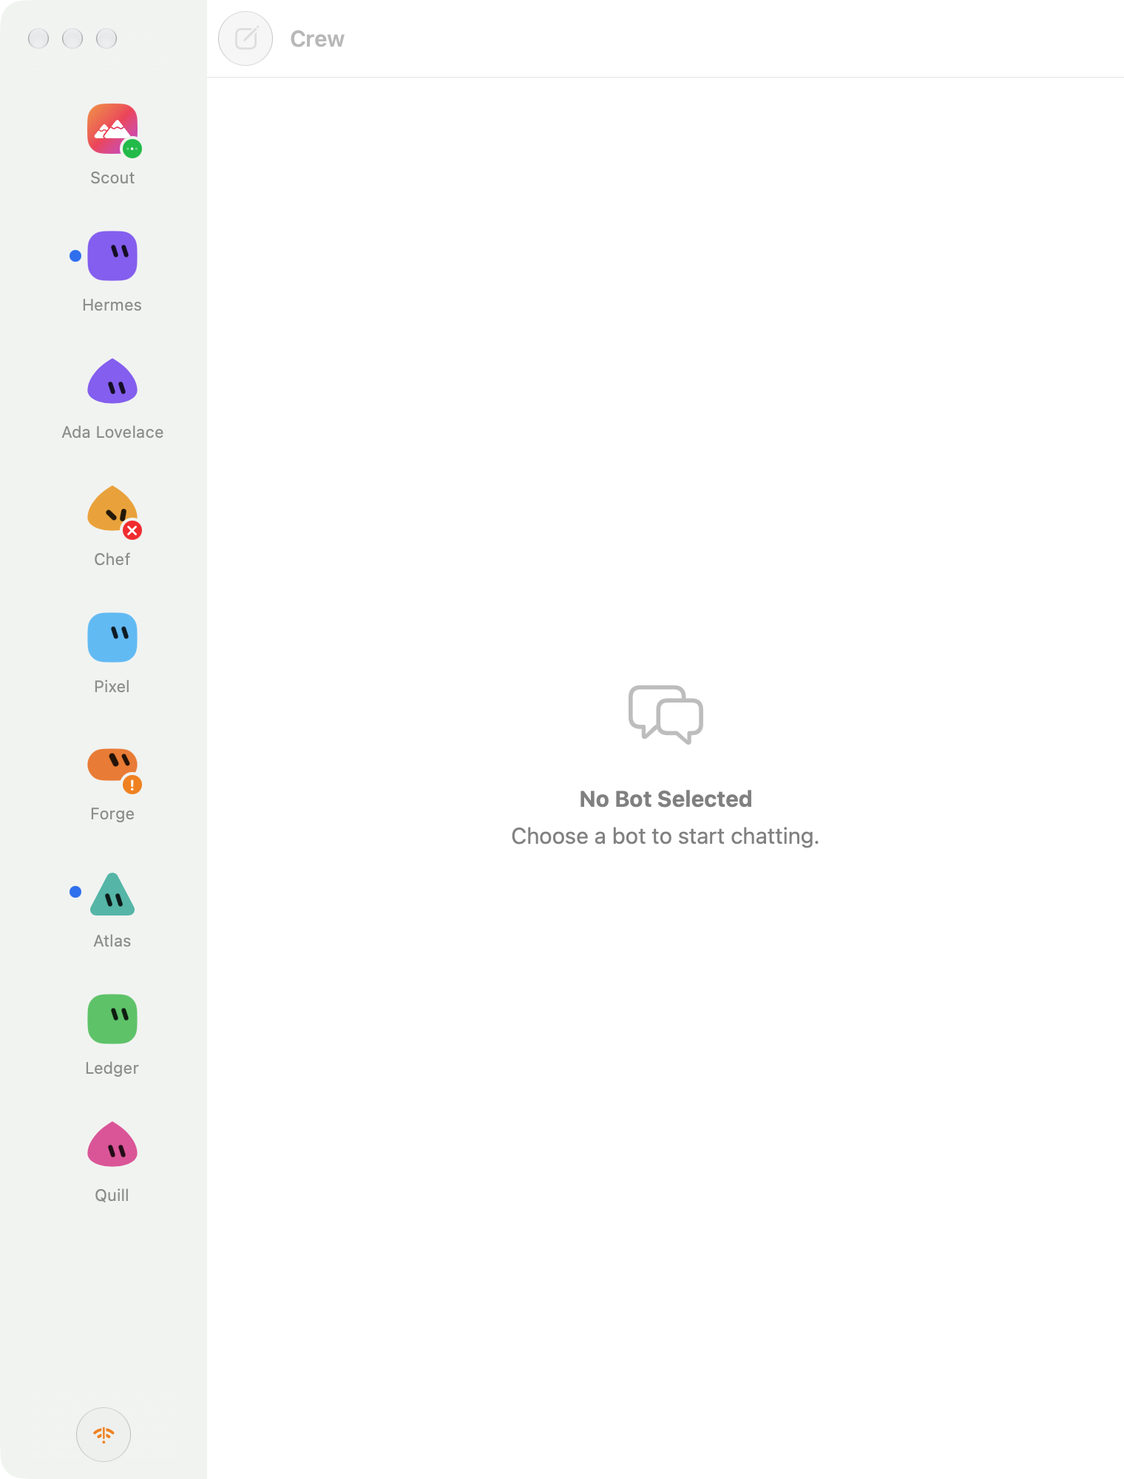
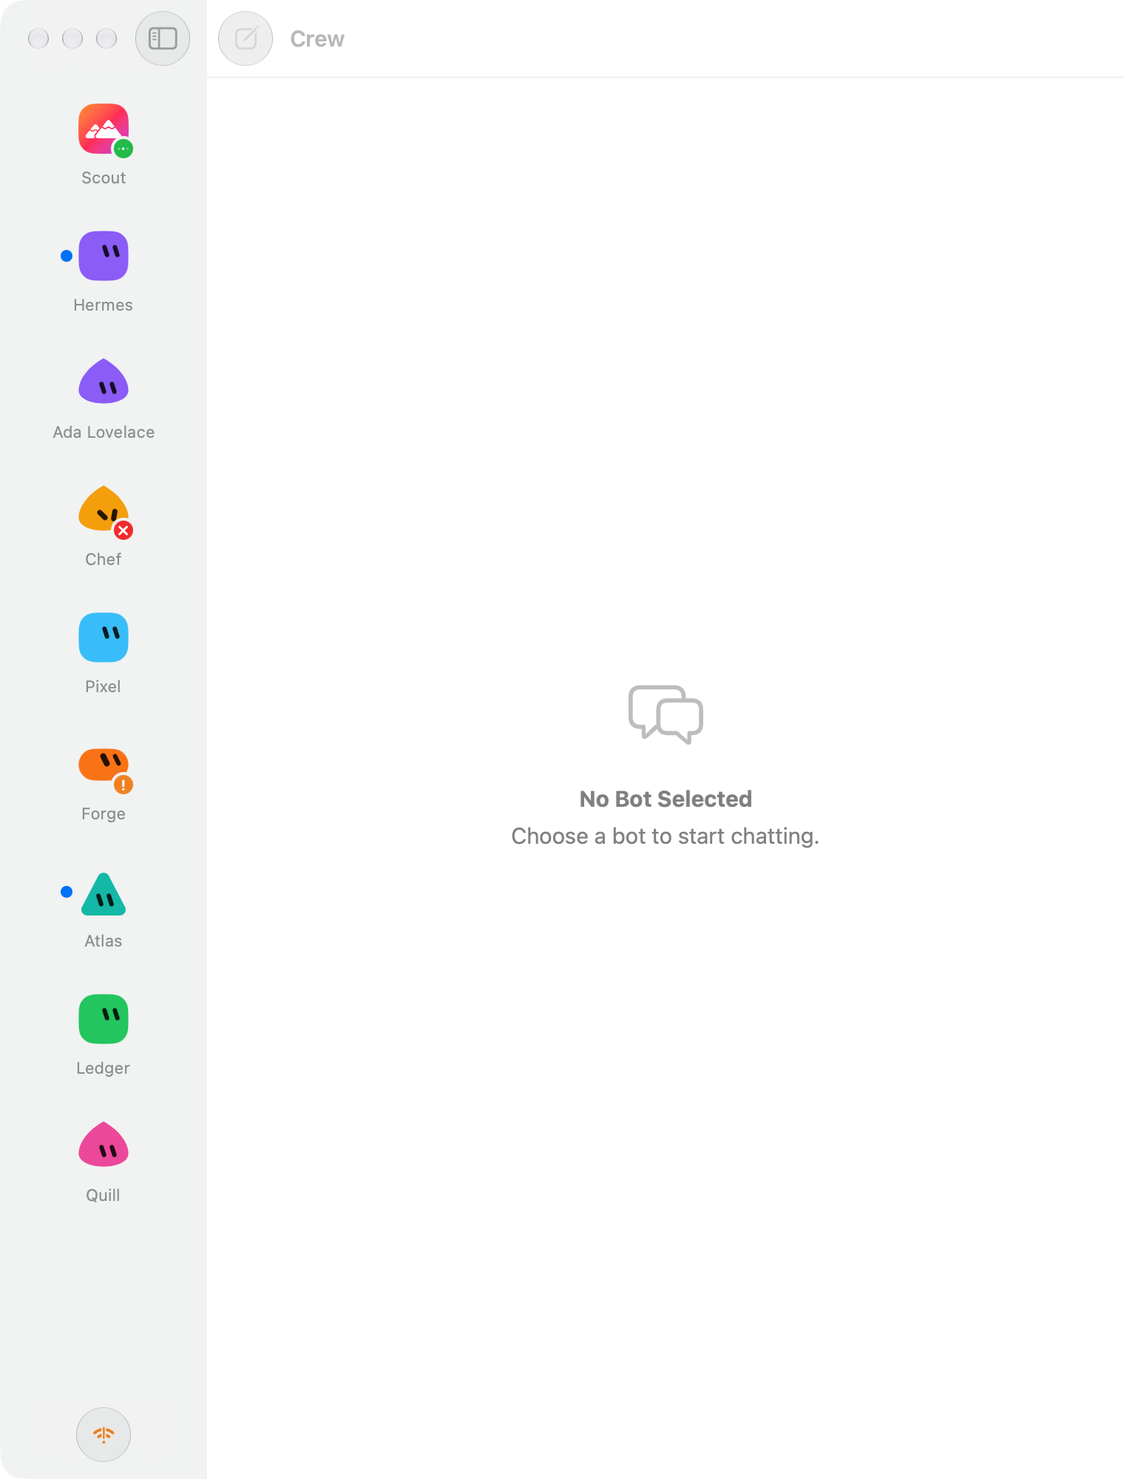
Mac sidebar strip: switch below 240 pt and centre the tiles under their selection (#212)
* Mac sidebar: switch to the strip below 240 pt instead of 280

* Mac sidebar strip: centre the tiles under their selection

* Sidebar strip renders: centred tiles at 98, 230 (strip) and 250 (rows)

diff --git a/Tests/CrewTests/SidebarStripTests.swift b/Tests/CrewTests/SidebarStripTests.swift
@@ -23,6 +23,7 @@ private func peer(_ store: BotStore) throws -> Bot {
 
 @MainActor private final class Frames {
     var sizes: [CGSize] = []
+    var centres: [CGFloat] = []
 }
 
 @MainActor private func rowSize(in listWidth: CGFloat, insets: EdgeInsets, @ViewBuilder row: () -> some View) -> CGSize? {
@@ -60,15 +61,35 @@ private func peer(_ store: BotStore) throws -> Bot {
     #expect(stripThreshold < 320)
 }
 
-@Test @MainActor func theThresholdIsWhereARegularRowStopsHoldingANameBesideTheWidestStatus() throws {
-    let needed = width(Text(verbatim: "Ada Lovelace").font(.headline)) + 4 + width(Text(verbatim: BotStatus.waiting(.approval).label ?? "").font(.subheadline))
+@Test @MainActor func atTheThresholdARegularRowHoldsAFullNameButTruncatesItBesideTheWidestStatus() throws {
+    let name = width(Text(verbatim: "Ada Lovelace").font(.headline))
+    let needed = name + 4 + width(Text(verbatim: BotStatus.waiting(.approval).label ?? "").font(.subheadline))
     let atThreshold = try textColumn(in: stripThreshold)
-    let below = try textColumn(in: stripThreshold - 8)
-    #expect(atThreshold >= needed, "\(atThreshold) \(needed)")
-    #expect(below < needed, "\(below) \(needed)")
+    #expect(atThreshold >= name, "\(atThreshold) \(name)")
+    #expect(atThreshold < needed, "\(atThreshold) \(needed)")
 }
 
 @Test @MainActor func aStripTileHasMessagesProportions() throws {
     let unread = try store("after")
     #expect(fitting(try peer(unread), unread) == CGSize(width: 78, height: 86))
+}
+
+@Test @MainActor func aStripTileIsCentredUnderItsSelection() throws {
+    let frames = Frames()
+    let list = List {
+        StripTile(name: "Ada Lovelace") {
+            Color.clear
+                .frame(width: rowAvatarSize, height: rowAvatarSize)
+                .onGeometryChange(for: CGFloat.self) { $0.frame(in: .global).midX } action: { frames.centres.append($0) }
+        }
+        .listRowInsets(EdgeInsets())
+    }
+    .listStyle(.sidebar)
+    .frame(width: stripWidth, height: 600)
+    let window = NSWindow(contentRect: CGRect(x: -4000, y: 0, width: stripWidth, height: 600), styleMask: [.borderless], backing: .buffered, defer: false)
+    window.contentView = NSHostingView(rootView: list)
+    window.contentView?.layoutSubtreeIfNeeded()
+    RunLoop.main.run(until: .now.addingTimeInterval(0.3))
+    let centre = try #require(frames.centres.last)
+    #expect(centre == stripWidth / 2, "\(centre)")
 }

diff --git a/Sources/BotRow.swift b/Sources/BotRow.swift
@@ -12,7 +12,7 @@ let dotGutter: CGFloat = 12
 private let badgeSize: CGFloat = 14
 #endif
 nonisolated let stripWidth: CGFloat = 98
-nonisolated let stripThreshold: CGFloat = 280
+nonisolated let stripThreshold: CGFloat = 240
 nonisolated let stripTileSize = CGSize(width: 78, height: 86)
 
 struct BotRow: View {
@@ -125,6 +125,7 @@ struct StripTile<Avatar: View>: View {
         .padding(.top, 15)
         .padding(.horizontal, 4)
         .frame(width: stripTileSize.width, height: stripTileSize.height, alignment: .top)
+        .frame(minWidth: 0, maxWidth: .infinity)
     }
 }
 

diff --git a/docs/flows/sidebar-strip.md b/docs/flows/sidebar-strip.md
@@ -22,7 +22,7 @@ From a 2x screenshot of macOS 27 Messages with its sidebar dragged narrow:
 
 - The sidebar column is `min stripWidth (98), ideal 320, max 400` while the inspector is closed, and `min 240, ideal 320, max 400` (main's values) while it is open. Window minimum with the inspector closed: the sidebar's current width (at least 98) + 320, so 418 pt at the narrowest (was 560); shrinking the window still narrows the sidebar; with it open 240 + 320 + 2 x its width (1240 at 340, as on main).
 - One decision for the whole list, as #143: `BotsView` reads the sidebar column's frame (outside the strip's narrower `List`) with `.onGeometryChange(for: Bool.self) { $0.size.width < stripThreshold }` into `@State isNarrow`; the list is a strip when `isNarrow` and `BotsView`'s inspector flag (`showsBot`) is off. The flag alone, not "flag and a selection", so selecting, deselecting or deleting a bot never flips the sidebar or its minimum; with the flag left on and nothing selected (Cmd-click deselect, the selected bot deleted) no inspector shows and the sidebar keeps regular rows at 240 pt or wider until a bot is selected (its inspector shows again, as on main) and the inspector is closed, accepted. The probe has no deselect step, so this state is checked by hand.
-- Threshold `stripThreshold` 280 pt, #143's derivation measured again: a regular row needs a readable name ("Ada Lovelace", headline, 85 pt) beside the widest status label ("Needs approval", 82 pt) and 4 pt spacing, 171 pt; a sidebar `List` row leaves the column width minus 106 pt for that text (16 pt list insets each side, 12 pt trailing row inset, 10 pt dot gutter, 40 pt avatar, 12 pt spacing), so a regular row stops working at about 277 pt. #143's 260 truncated that name beside "Needs approval" (it measured 154 pt). 320 (the default) is always regular.
+- Threshold `stripThreshold` 240 pt since 2026-10-26 (user request: 280 collapsed too early; between 240 and 280 a long name truncates beside a wide status label, as with the inspector open). Original 280 pt from #143's derivation measured again: a regular row needs a readable name ("Ada Lovelace", headline, 85 pt) beside the widest status label ("Needs approval", 82 pt) and 4 pt spacing, 171 pt; a sidebar `List` row leaves the column width minus 106 pt for that text (16 pt list insets each side, 12 pt trailing row inset, 10 pt dot gutter, 40 pt avatar, 12 pt spacing), so a regular row stops working at about 277 pt. #143's 260 truncated that name beside "Needs approval" (it measured 154 pt). 320 (the default) is always regular.
 - In the strip the `List` shows, in order: favourites, then each section's bots and groups in their usual order (`rows(in:)`, groups interleaved by recency in the unfiled section), then unfiled groups when there is no unfiled section. No section headers, no separators, no favourites grid. Every tile is a tagged `List` row, favourites included, so selection, keyboard and menus come from the `List`.
 - The search field is not attached in the strip (`.searchable` sits only on the regular branch). So the `List` is rebuilt at each crossing: the selection is kept (it lives in `BotsView`), keyboard focus and the scroll offset are not (the list starts at the top, as a freshly opened list). The connection pill's 2 s timer and the message search task sit on the column, outside the rebuilt list, so a crossing doesn't reset the pill's delay. The search does not run in the strip (nothing shows its results); a query typed before narrowing is kept and searched again when the sidebar widens; the strip ignores it, shows every bot and never shows the search empty state.
 - Scroll indicators are hidden in the strip (`.scrollIndicators(.never)`): a legacy (always shown) scroller would take 16 pt of the 98 pt list and clip the tiles. The strip still scrolls with the wheel, trackpad and keyboard.
@@ -30,7 +30,7 @@ From a 2x screenshot of macOS 27 Messages with its sidebar dragged narrow:
 
 ## Tile
 
-- `StripTile`: a fixed 78 x 86 pt frame (`stripTileSize`): avatar (`rowAvatarSize`, 40 pt) 15 pt from the top, 6 pt to the name, name in `.subheadline` (11 pt), `.secondary`, one line, tail truncation, centred, 4 pt side padding. Row insets zero, separator hidden. Fixed points, like the rows; the System Settings sidebar icon size does not change it (Crew's rows ignore it too).
+- `StripTile`: a fixed 78 x 86 pt frame (`stripTileSize`): avatar (`rowAvatarSize`, 40 pt) 15 pt from the top, 6 pt to the name, name in `.subheadline` (11 pt), `.secondary`, one line, tail truncation, centred, 4 pt side padding. Row insets zero, separator hidden. The sidebar `List` gives row content only 66 of its 98 pt even with zero row insets (16 pt in from each edge, measured 2026-10-26), centred on the 78 pt selection; the fixed tile is wider than that, and a row places content wider than its proposal at the leading edge (avatar centre 55 pt, the selection's 49), so `StripTile` ends in `.frame(minWidth: 0, maxWidth: .infinity)`, which takes the row's width and centres the tile in it (the tile overflows 6 pt each side, unclipped). A plain `.frame(maxWidth: .infinity)` does nothing: without `minWidth` it never gets narrower than its 78 pt child. Fixed points, like the rows; the System Settings sidebar icon size does not change it (Crew's rows ignore it too).
 - Selection: the system sidebar selection of the row (accent fill with white text when the window is key, grey when not), not a painted tile. Its corner radius is the system's (about 8 to 10 pt, Messages' about 12). The renders are captured from an offscreen window that is not key, so they show the grey state.
 - Status on the avatar, as #143's compact badge: working green `ellipsis` (variable colour effect, honours Reduce Motion), waiting (approval, question, payment) orange `exclamationmark`, failed red `xmark`, a 13 pt circle knocked out of the avatar with a 2 pt gap. Unread: the regular row's 8 pt accent dot, its centre 5 pt left of the avatar (where the regular row puts it), vertically centred on it.
 - Groups: `GroupAvatar` and the room name; no status badge (rooms have none).
@@ -42,7 +42,7 @@ From a 2x screenshot of macOS 27 Messages with its sidebar dragged narrow:
 
 - **Selection, keyboard:** arrow keys move through the tiles; Return and double click open the bot in its own window (`contextMenu(forSelectionType:primaryAction:)`), now also for favourites in the strip; ⌘O works from the selected bot as today. Crew has no Find command, so there is no ⌘F to define in the strip.
 - **Context menus:** the `List`'s selection menu (Open in New Window, Pin/Unpin, Duplicate, Move to Section, Delete) on bot tiles, favourites included. Group tiles have no menu, as group rows today. The leading swipe to pin is iOS's; the Mac strip has none, as the Mac rows have none in practice.
-- **Inspector:** opens from the persona pill or View > Show Inspector (Ctrl-Cmd-I) as before. Opening it with the sidebar in the strip turns the strip back into regular rows and raises the column to 240 pt (the window grows to its 1240 pt minimum, as on main); the search field returns, with any earlier query. Closing it returns the column to the width the user dragged (measured: `sidebar:200,open,close` logs 200, 240, 200) and the strip if that is below 280 pt. Keyboard focus in the sidebar does not survive the switch (the `List` is rebuilt, as at any crossing), accepted. Regular rows between 240 and 280 pt truncate a long name beside a wide status label, as on main, accepted. Dragging the divider below 280 pt while the inspector is open stops at 240 pt with regular rows, as on main. Why: in #167 the strip's sizes fed the split view while the inspector changed the window minimum, and opening the inspector in a 960 pt window crashed in a constraint loop (`_postWindowNeedsUpdateConstraints` from `NSHostingView.SizeConstraints.update`; main's ui.yml run 40101434807, reproduced offscreen 6 of 6 on the #167 code).
+- **Inspector:** opens from the persona pill or View > Show Inspector (Ctrl-Cmd-I) as before. Opening it with the sidebar in the strip turns the strip back into regular rows and raises the column to 240 pt (the window grows to its 1240 pt minimum, as on main); the search field returns, with any earlier query. Closing it returns the column to the width the user dragged (measured: `sidebar:200,open,close` logs 200, 240, 200) and the strip if that is below 240 pt. Keyboard focus in the sidebar does not survive the switch (the `List` is rebuilt, as at any crossing), accepted. Regular rows between 240 and 280 pt truncate a long name beside a wide status label, as on main, accepted. Dragging the divider below 240 pt while the inspector is open stops at 240 pt with regular rows, as on main. Why: in #167 the strip's sizes fed the split view while the inspector changed the window minimum, and opening the inspector in a 960 pt window crashed in a constraint loop (`_postWindowNeedsUpdateConstraints` from `NSHostingView.SizeConstraints.update`; main's ui.yml run 40101434807, reproduced offscreen 6 of 6 on the #167 code).
 - **Chat, composer, push, chat windows:** untouched. A push that selects a bot selects its tile.
 - **Connection pill:** too wide for the strip, so the strip shows `ConnectionBadge` instead: the pill's icon (spinner or orange `wifi.exclamationmark`) in a 36 pt glass circle, chosen by `isStrip` (the regular sidebar and iOS keep the full pill unchanged), with the state and host as its tooltip and VoiceOver label and value; while unreachable the circle is the Retry button (hint "Retry"), while connecting it is disabled.
 - **Light and dark:** system selection, system badge colours, knockout instead of painted rings; rendered in both.
@@ -65,10 +65,11 @@ Messages on iPad has no strip; its rows simply get narrower. iPad keeps plain re
 - Unit (`CrewTests/SidebarStripTests.swift`, replaces `CompactRowTests.swift`), with the recorded `cold-open` roster:
   - The bot tile is exactly 78 x 86 pt.
   - `stripWidth` <= 140 < `stripThreshold` < 320.
-  - The threshold: in a real sidebar-style `List` row (same row insets as `BotsView`), the text column at `stripThreshold` holds "Ada Lovelace" beside "Needs approval", and 8 pt narrower it does not.
-  - Shown failing on `main` (none of it exists there; #143's 260 fails the threshold test with 154 < 171 pt) and with mutations (a flexible-width tile fails the size test).
+  - The threshold: in a real sidebar-style `List` row (same row insets as `BotsView`), the text column at `stripThreshold` (134 pt at 240) holds "Ada Lovelace" (85 pt) but not beside "Needs approval" (171 pt), the accepted truncation; 280 fails it, 160 too.
+  - The tile is centred under its selection: in a real sidebar-style `List` at `stripWidth` with zero row insets, the avatar's centre is at `stripWidth / 2` (49 pt; 55 pt without the `minWidth: 0` wrapper, see Tile).
+  - Shown failing on `main` (none of it exists there; #143's 260 failed the old threshold test with 154 < 171 pt) and with mutations (a flexible-width tile fails the size test, the tile without its wrapper fails the centring test).
   - The tile's VoiceOver label and value have no automated check: an unhosted test gets no accessibility tree (tried, `accessibilityChildren()` is empty); they are read in review.
-- Renders (Mac, light and dark, `./snapshot.sh mac sidebar-compact sidebar layout`): `sidebar-compact` drags the divider to 330 and then to the strip (lands on 98) in a tall window with a selected waiting bot, pinned favourites, a photo avatar, working, failed, unread and a group, so the tile order is visible; with `-snapshotSidebarWidth 270` (a wide strip, just below the threshold) and `290` (regular rows just above it); `unreachable` with `-snapshotSidebarWidth 140` (the divider override now works for any screen) for the icon-only pill. `sidebar` and `layout` render in a 760 pt window, where the sidebar opens at 240 pt (as on `main`; lowering the chat column's ideal from 640 to 440 does not change it, measured), so they show the strip where `main` showed #143's compact rows. Saved as `docs/flows/renders/sidebar-strip-{98,270,290}-{light,dark}.png` and `sidebar-strip-offline-light.png` (the 98 pt pair re-rendered 2026-10-25 in an unlocked session; the 270, 290 and offline renders are #167's, captured at the 140 pt column). At 98 pt the sidebar's title bar has no room for the toggle beside the window buttons, so it is not shown there; View > Show/Hide Sidebar and Ctrl-Cmd-S still work.
+- Renders (Mac, light and dark, `./snapshot.sh mac sidebar-compact sidebar layout`): `sidebar-compact` drags the divider to 330 and then to the strip (lands on 98) in a tall window with a selected waiting bot, pinned favourites, a photo avatar, working, failed, unread and a group, so the tile order is visible; with `-snapshotSidebarWidth 230` (a wide strip, just below the threshold) and `250` (regular rows just above it); `unreachable` with `-snapshotSidebarWidth 140` (the divider override now works for any screen) for the icon-only pill. `sidebar` and `layout` render in a 760 pt window, where the sidebar opens at 240 pt (as on `main`; lowering the chat column's ideal from 640 to 440 does not change it, measured), so they show the strip where `main` showed #143's compact rows. Saved as `docs/flows/renders/sidebar-strip-{98,230,250}-{light,dark}.png` and `sidebar-strip-offline-light.png` (all re-rendered 2026-10-26 in an unlocked session with the centred tiles; measured in the PNGs, the selected tile's avatar centre is the selection's centre: 49 pt at 98 (55 before), 115 pt in the 230 pt column, 70 pt at 140). At 98 pt the sidebar's title bar has no room for the toggle beside the window buttons, so it is not shown there; View > Show/Hide Sidebar and Ctrl-Cmd-S still work.
 - Hands-on checks for the independent reviewer (no UI test, since the suite stays small): arrow keys and Return on a favourite tile, right-click menu on a favourite tile, the search field absent in the strip and back when widened, the sidebar toggle present in the strip until the title bar runs out of room, and View > Hide Sidebar at 98 pt.
 - `-measure YES` on `layout` logs the window minimum 418 with the sidebar at 240 or narrower.
 - Probe (`-snapshot layout -inspectorProbe`, unlocked session, three runs each, all must print `PROBE survived`): the #173 matrix from PLAN.md (27 sequences) and the strip sequences `width:960`, `width:960,open,close`, `width:960,open,width:0`, `width:960,open,sidebar:270,sidebar:140`, `sidebar:200,open`, `sidebar:200,open,close`, `sidebar:140,open,close,width:0`, `open,close,sidebar:200,open`, `open,sidebar:270,sidebar:290,sidebar:270,close`, `sidebar:270,sidebar:290,sidebar:270,open,close`, `width:960,sidebar:140,open,width:0,close,width:0`. The #167 code must crash on the `width:960,open` ones (it does, 6 of 6). PROBE lines must show the column at 240 or wider whenever the inspector is open.

diff --git a/docs/PLAN.md b/docs/PLAN.md
@@ -26,7 +26,7 @@ References: `docs/hermes-api.md`, `docs/hermex-features.md`, `docs/swiftui-guide
 - Links: on iOS one root `OpenURLAction` opens http/https in `SFSafariViewController` as a `.pageSheet` card (universal links to installed apps first, Crew's install page and every other scheme to the system); the Mac keeps the default browser. Spec: `docs/flows/in-app-browser.md`.
 - Transcript uses the soft scroll edge effect on both edges (`.scrollEdgeEffectStyle(.soft, for: .vertical)`), so content under the glass composer blurs and fades like in Messages (spec `docs/flows/composer-glass.md`; it was hidden at the bottom until then because the hard style drew an opaque band and divider).
 - Snapshots: `./snapshot.sh <mac|ios|both> <screen>...` renders only the named screens (no default, so a change renders just what it touches); it runs the Debug app with `-snapshot <name>` (screens listed in the script; fixture `Connection`, `BotStore` and `ChatSessions`, no network or Keychain; `bot-page` is the real `ChatScreen` with the inspector open on macOS (attached in the fixture, since the app attaches it in `BotsView`) and the pushed bot page on iOS; `layout` and `layout-inspector` are the real `BotsView` with a favourite (Ada) or a row (Pixel) selected and its chat open, the latter with the inspector; `chat-dictation` is the listening composer); macOS renders light + dark in an offscreen window under `.accessory` policy, captured with `CGWindowListCreateImage` into the sandbox tmp dir and copied to `snapshots/`; iOS uses a headless iOS 27 simulator + `simctl io screenshot`.
-- Mac sidebar strip (replaces #143's compact rows): below a sidebar column width of 280 pt the Mac sidebar is one column of 78 x 86 pt avatar tiles with the name under each (Messages' measured size), favourites first, then sections and groups in order, no headers, separators or search field; the sidebar toggle stays, since `.toolbar(removing: .sidebarToggle)` on the sidebar stops `NavigationSplitView` applying the column's ideal width (windows opened in the strip); status as a badge knocked out of the avatar, unread as a dot beside it; one decision for the whole list from the sidebar's width. Only while the inspector is closed: with it open the sidebar keeps regular rows and main's 240 pt minimum (the window grows to 1240 as on main), because #167's strip, with a 140 pt minimum under an open inspector, crashed opening the inspector in a 960 pt window (main's ui.yml run 40101434807; reproduced offscreen 6 of 6 with the probe, 0 crashes after the change across the #173 matrix and the strip sequences in the spec). The column asks for 98 pt and gets it in an unlocked session (#167's 140 pt floor was likely measured locked); the tiles sit in a 98 pt `List` centred in the column. iPad has no strip and no compact rows (Messages on iPad has none). Spec: `docs/flows/sidebar-strip.md`.
+- Mac sidebar strip (replaces #143's compact rows): below a sidebar column width of 240 pt (280 until 2026-10-26, user request: it collapsed too early) the Mac sidebar is one column of 78 x 86 pt avatar tiles with the name under each (Messages' measured size), favourites first, then sections and groups in order, no headers, separators or search field; the sidebar toggle stays, since `.toolbar(removing: .sidebarToggle)` on the sidebar stops `NavigationSplitView` applying the column's ideal width (windows opened in the strip); status as a badge knocked out of the avatar, unread as a dot beside it; one decision for the whole list from the sidebar's width. Only while the inspector is closed: with it open the sidebar keeps regular rows and main's 240 pt minimum (the window grows to 1240 as on main), because #167's strip, with a 140 pt minimum under an open inspector, crashed opening the inspector in a 960 pt window (main's ui.yml run 40101434807; reproduced offscreen 6 of 6 with the probe, 0 crashes after the change across the #173 matrix and the strip sequences in the spec). The column asks for 98 pt and gets it in an unlocked session (#167's 140 pt floor was likely measured locked); the tiles sit in a 98 pt `List` centred in the column. iPad has no strip and no compact rows (Messages on iPad has none). Spec: `docs/flows/sidebar-strip.md`.
 - Inspector probe (#174): `-snapshot layout -inspectorProbe "<steps>"` runs comma separated steps in the offscreen snapshot window (autosave off): `open`/`close` (inspector), `sidebar:<pt>` (divider), `width:<pt>` (`width:0` is the window minimum), logging window width, `contentMinSize` and column widths after each step and `PROBE survived` at the end. Only meaningful in an unlocked session: while the screen is locked the inspector neither raises the window minimum nor collapses on close (and renders come out blank, PR #172). #173 (`sidebar:0,open,close,width:0` crashing in `NSHostingView.updateAnimatedWindowSize` from `windowDidLayout`) happens only in that stale state: main crashed 4 of 4 locked and 0 of 81 unlocked (PR #176), so no workaround was added. Not probed: a minimised, occluded or other-Space window, or a display change resizing the window while the Mac is locked.
 - Session persistence: one Keychain item (`session`) holding server URL, pinned `install_id` and the cookie jar as `{name,value,domain,path,expires,secure}`; ephemeral `URLSession` per app, cookies re-saved whenever a refresh sees them change. Server URL and username live in UserDefaults for prefill.
 - Keychain: data-protection keychain on both platforms; the Mac build needs `CREW_PUSH=1` signing (its profile supplies `application-identifier`, no keychain-access-groups needed), and the switch dropped sessions stored in the old login-keychain item.
